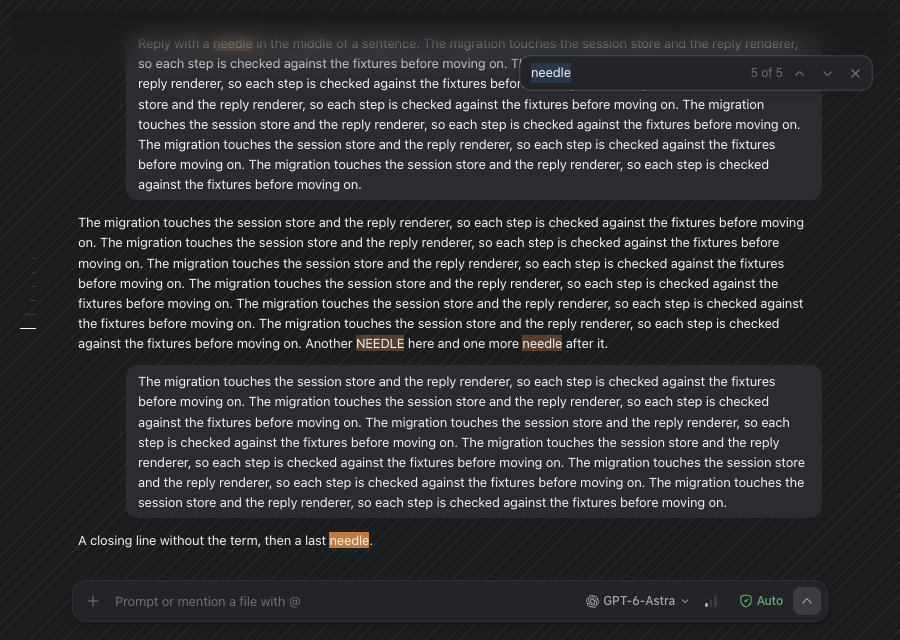
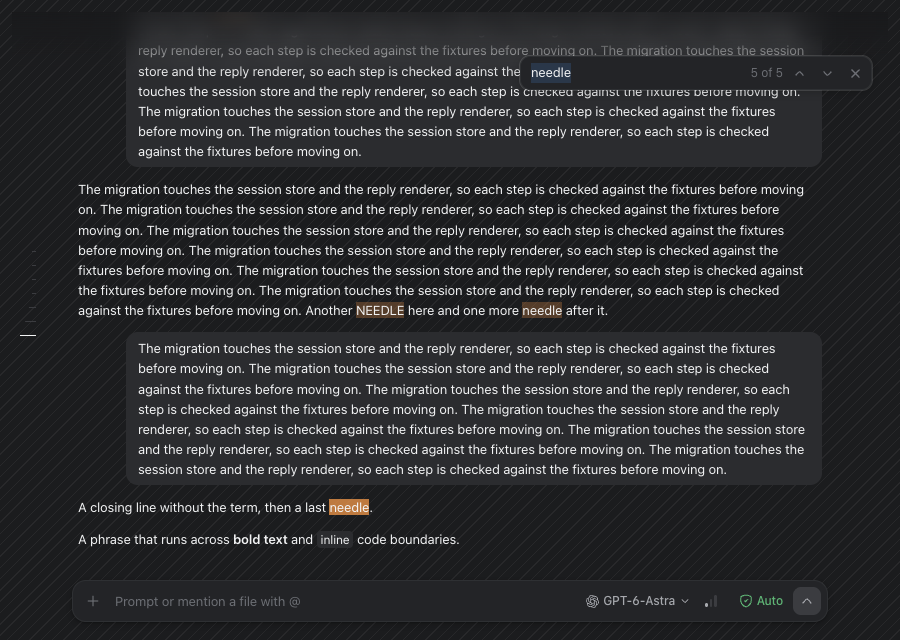
test: exercise find in chat through the real App, match across inline markup
Searches now join the text nodes of each block, so a phrase crossing bold or
inline code is found. test:find-in-chat gains a phase that mounts the real
App with mocked IPC.

Changed region(s): [[0.0622, 0.0625, 0.9022, 0.875]]

diff --git a/app/src/components/FindBar.tsx b/app/src/components/FindBar.tsx
@@ -1,30 +1,55 @@
 import { useEffect, useLayoutEffect, useRef, useState, type RefObject } from "react";
 import { HugeiconsIcon } from "@hugeicons/react";
 import { ArrowDown01Icon, ArrowUp01Icon, Cancel01Icon } from "@hugeicons/core-free-icons";
-import { clampMatch, findLabel, matchOffsets, stepMatch } from "../lib/find-in-chat";
+import { clampMatch, findLabel, locateOffset, matchOffsets, stepMatch } from "../lib/find-in-chat";
 import { isMac } from "../lib/shortcut-hints";
 import Tooltip from "./primitives/Tooltip";
 
 const MATCH = "find-match";
 const ACTIVE = "find-active";
 
-/** Text ranges for every match under `root`. Hidden text (collapsed tool rows) isn't laid out, so it is skipped. */
+/** The nearest ancestor that isn't inline, so "a **bold** word" reads as one string. */
+function blockOf(element: Element, cache: Map<Element, Element>): Element {
+  const cached = cache.get(element);
+  if (cached) return cached;
+  let block = element;
+  while (block.parentElement && /^inline/.test(getComputedStyle(block).display)) block = block.parentElement;
+  cache.set(element, block);
+  return block;
+}
+
+/** Text ranges for every match under `root`, including ones that cross inline markup. Hidden text (collapsed tool rows) isn't laid out, so it is skipped. */
 function collectRanges(root: Element, query: string): Range[] {
   const ranges: Range[] = [];
   const visible = new Map<Element, boolean>();
+  const blocks = new Map<Element, Element>();
+  let group: Text[] = [];
+  let groupBlock: Element | null = null;
+  const flush = () => {
+    const nodes = group;
+    group = [];
+    if (!nodes.length) return;
+    const lengths = nodes.map((node) => node.data.length);
+    for (const start of matchOffsets(nodes.map((node) => node.data).join(""), query)) {
+      const from = locateOffset(lengths, start, "start");
+      const to = locateOffset(lengths, start + query.length, "end");
+      const range = document.createRange();
+      range.setStart(nodes[from.index], from.offset);
+      range.setEnd(nodes[to.index], to.offset);
+      ranges.push(range);
+    }
+  };
   const walker = document.createTreeWalker(root, NodeFilter.SHOW_TEXT);
   for (let node = walker.nextNode() as Text | null; node; node = walker.nextNode() as Text | null) {
     const parent = node.parentElement;
     if (!parent || parent.closest("script, style")) continue;
     if (!visible.has(parent)) visible.set(parent, parent.checkVisibility?.() ?? true);
     if (!visible.get(parent)) continue;
-    for (const start of matchOffsets(node.data, query)) {
-      const range = document.createRange();
-      range.setStart(node, start);
-      range.setEnd(node, start + query.length);
-      ranges.push(range);
-    }
+    const block = blockOf(parent, blocks);
+    if (block !== groupBlock) { flush(); groupBlock = block; }
+    group.push(node);
   }
+  flush();
   return ranges;
 }
 

diff --git a/app/src/lib/find-in-chat.test.ts b/app/src/lib/find-in-chat.test.ts
@@ -1,6 +1,6 @@
 import test from "node:test";
 import assert from "node:assert/strict";
-import { clampMatch, findLabel, matchOffsets, stepMatch } from "./find-in-chat.ts";
+import { clampMatch, findLabel, locateOffset, matchOffsets, stepMatch } from "./find-in-chat.ts";
 
 test("matches ignore case and do not overlap", () => {
   assert.deepEqual(matchOffsets("Foo foo FOO", "foo"), [0, 4, 8]);
@@ -33,4 +33,12 @@ test("label shows position, no results, or nothing without a query", () => {
   assert.equal(findLabel("", 0, 0), "");
   assert.equal(findLabel("x", 0, 0), "No results");
   assert.equal(findLabel("x", 2, 12), "3 of 12");
+});
+
+test("offsets map back into the node they fall in, across node boundaries", () => {
+  const lengths = [4, 3, 5];
+  assert.deepEqual(locateOffset(lengths, 2, "start"), { index: 0, offset: 2 });
+  assert.deepEqual(locateOffset(lengths, 4, "start"), { index: 1, offset: 0 });
+  assert.deepEqual(locateOffset(lengths, 4, "end"), { index: 0, offset: 4 });
+  assert.deepEqual(locateOffset(lengths, 12, "end"), { index: 2, offset: 5 });
 });

diff --git a/app/src/lib/find-in-chat.ts b/app/src/lib/find-in-chat.ts
@@ -25,3 +25,14 @@ export function findLabel(query: string, current: number, total: number): string
   if (!query) return "";
   return total ? `${current + 1} of ${total}` : "No results";
 }
+
+/** Which text node an offset into the joined text of `lengths` falls in, and where in it. A range start prefers the later node at a boundary, an end the earlier one. */
+export function locateOffset(lengths: number[], offset: number, edge: "start" | "end"): { index: number; offset: number } {
+  let before = 0;
+  for (let index = 0; index < lengths.length; index++) {
+    const end = before + lengths[index];
+    if (edge === "start" ? offset < end : offset <= end) return { index, offset: offset - before };
+    before = end;
+  }
+  return { index: Math.max(lengths.length - 1, 0), offset: lengths.at(-1) ?? 0 };
+}
